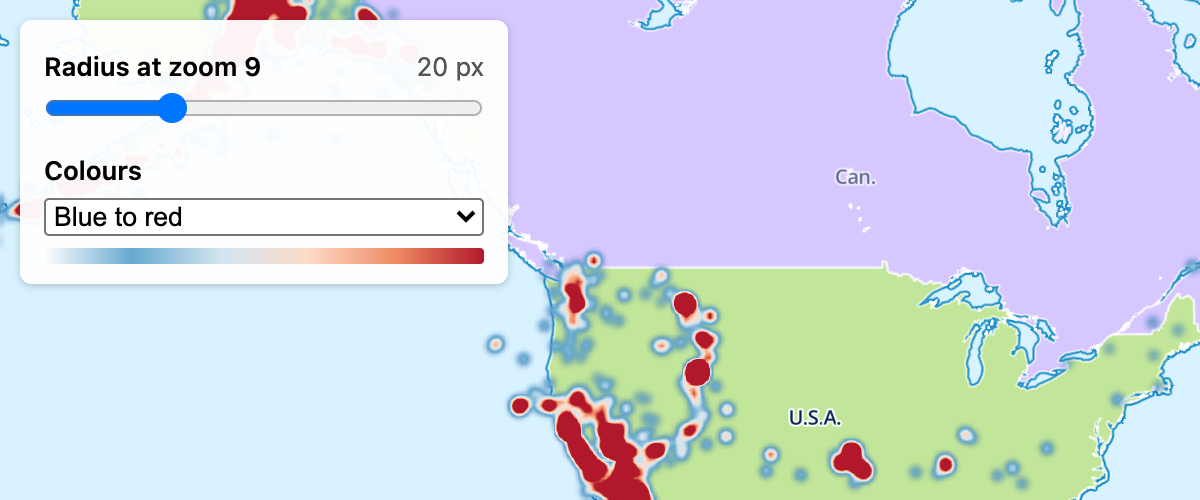
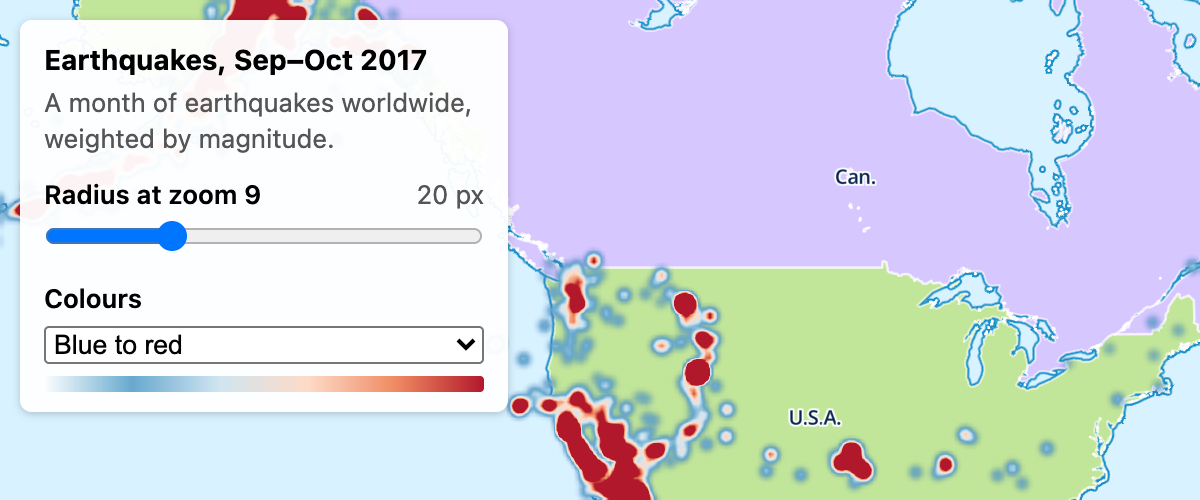
Title the heatmap layer example and credit USGS for the earthquake data

diff --git a/test/examples/create-a-heatmap-layer.html b/test/examples/create-a-heatmap-layer.html
@@ -17,6 +17,8 @@
             position: absolute; top: 10px; left: 10px; width: 220px;
             padding: 10px 12px; background: rgba(255, 255, 255, 0.95); border-radius: 6px; box-shadow: 0 1px 4px rgba(0, 0, 0, 0.2);
         }
+        h1 { font-size: 14px; margin: 0 0 2px; }
+        p { margin: 0 0 10px; color: #555; }
         .row { margin: 4px 0 10px; }
         .row:last-child { margin-bottom: 0; }
         .row label { display: flex; justify-content: space-between; font-weight: 600; margin-bottom: 4px; }
@@ -28,6 +30,8 @@
 <body>
 <div id="map"></div>
 <div id="panel">
+    <h1>Earthquakes, <span style="white-space: nowrap">Sep–Oct 2017</span></h1>
+    <p>A month of earthquakes worldwide, weighted by magnitude.</p>
     <div class="row">
         <label for="radius">Radius at zoom 9 <output id="radius-value"></output></label>
         <input id="radius" type="range" min="5" max="60" step="1" value="20">
@@ -86,12 +90,14 @@
     });
 
     map.on('load', () => {
-        // Add a geojson point source.
+        // Earthquakes of 8 September to 8 October 2017 from the USGS earthquake catalog (public domain):
+        // https://earthquake.usgs.gov/earthquakes/search/
         // Heatmap layers also work with a vector tile source.
         map.addSource('earthquakes', {
             'type': 'geojson',
             'data':
-                'https://maplibre.org/maplibre-gl-js/docs/assets/earthquakes.geojson'
+                'https://maplibre.org/maplibre-gl-js/docs/assets/earthquakes.geojson',
+            'attribution': 'Earthquakes: <a href="https://earthquake.usgs.gov/">U.S. Geological Survey</a>'
         });
 
         map.addLayer(
